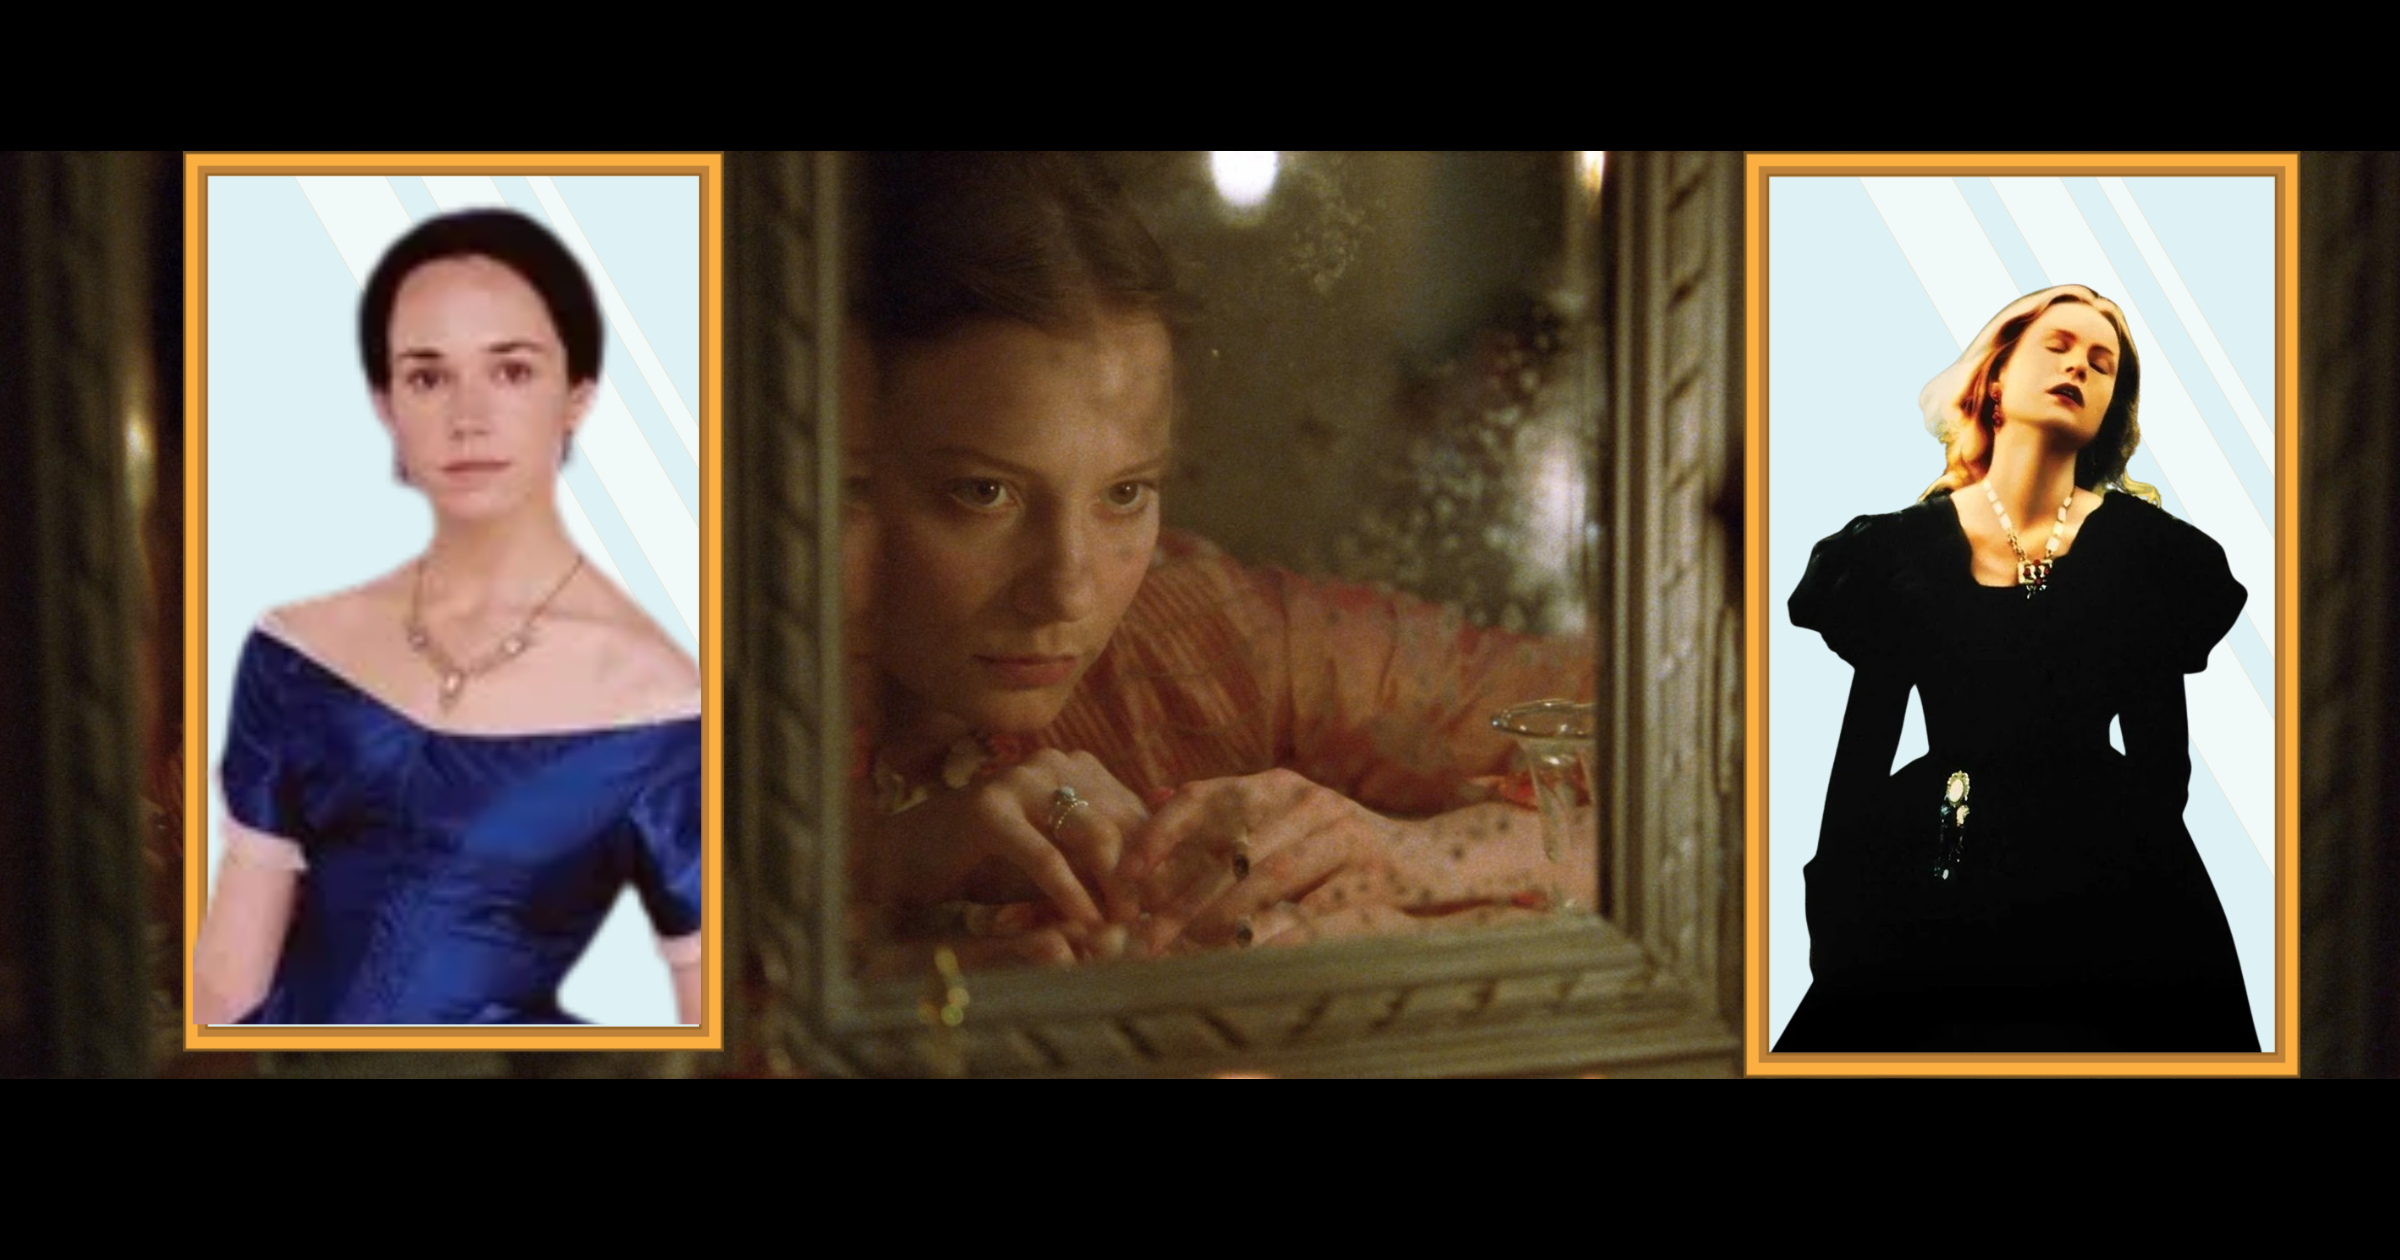
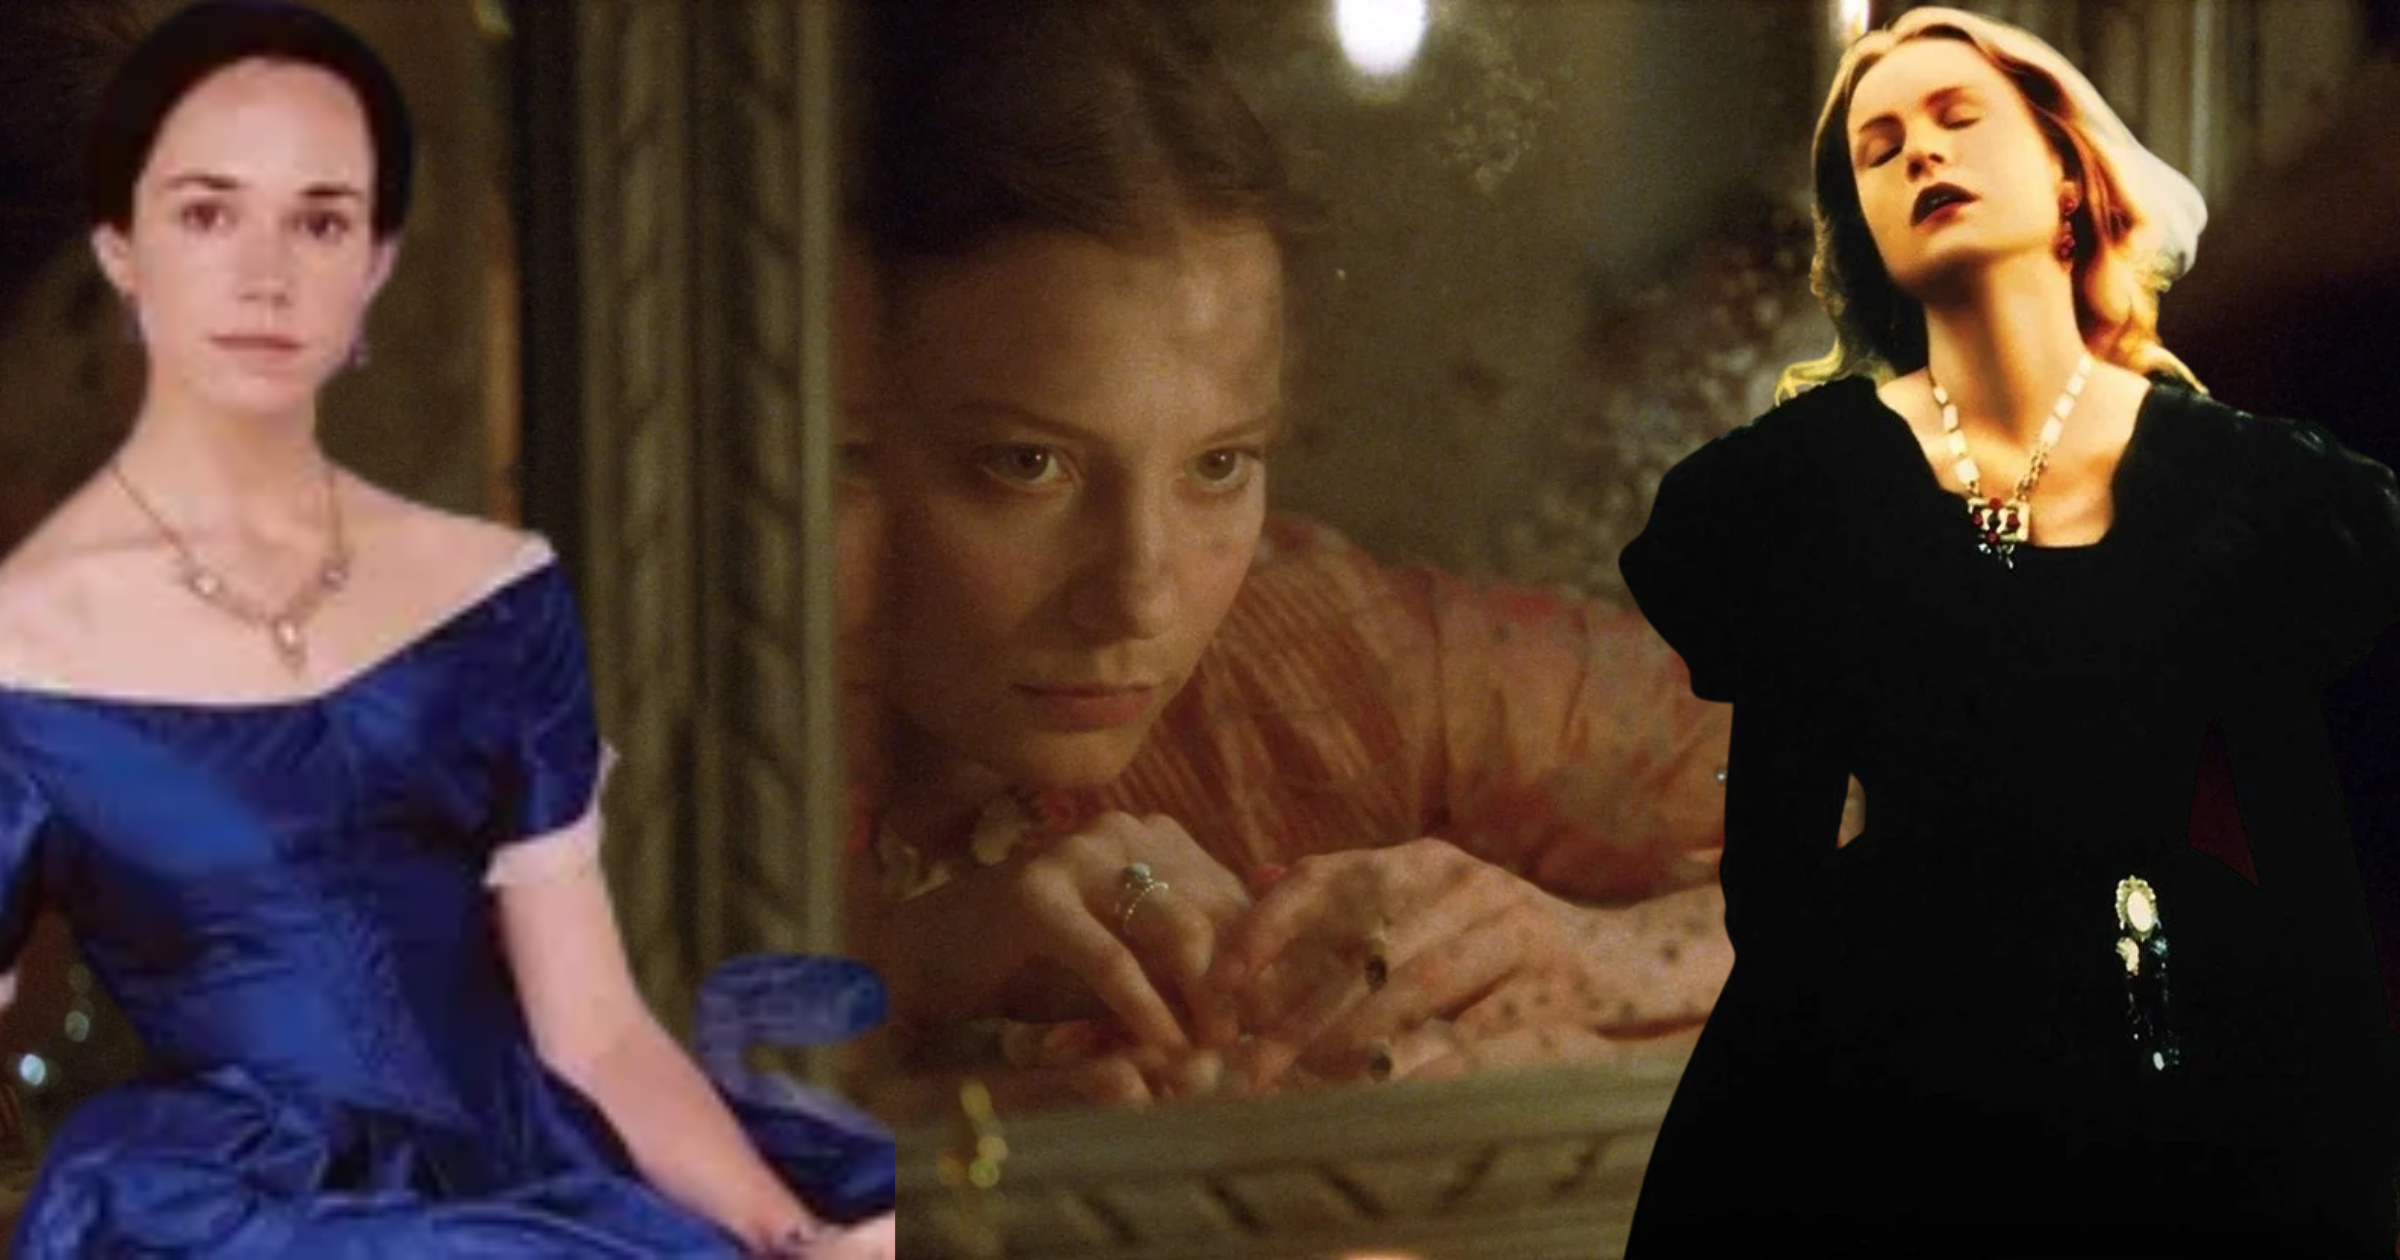
fixed bibio and image

diff --git a/content/posts/2026-11-23-madame-bovaries.md b/content/posts/2026-11-23-madame-bovaries.md
@@ -7,9 +7,9 @@ categories: ["Classics","Fiction"]
 authors: ["Gustave Flaubert"]
 image: "/img/three-bovaries.png"
 imageMobile: "/img/three-bovaries.png"
-imageFit: ""
+imageFit: "contain"
 imageHero: "/img/three-bovaries.png"
-imagePosition: "Top 5%"
+imagePosition: "Top"
 imageAlt: "Frances O’Connor, Mia Wasikowska, and Isabelle Huppert as Madame Bovary"
 photoCredit: 'Photos: Frances O’Connor in the 2000 BBC version, Mia Wasikowska in the 2014 film (Radiant Films International), Isabelle Huppert in the 1991 film. Composite by Septimus Carr in Canva.'
 book:  
@@ -27,11 +27,14 @@ readDates:
    start: "2026-09-14"
    end: "2026-09-26"
 sources:
+  - barnes_flaubert’s_parrot
+  - barthes_madame_bovary
+  - chabrol_madame_bovary
+  - fywell_madame_bovary
   - flaubert_madame_bovary
   - kundera_the_curtain
-  - jacobs_flaubert_sand_the_correspondence
   - hall_exposed_by_the_mask
-  - barnes_flaubert’s_parrot
+  - sand_flaubert_sand-flaubert_letters
   - wood_the_broken_estate
 historicalEvents:
   - date: "1821-12-12"
